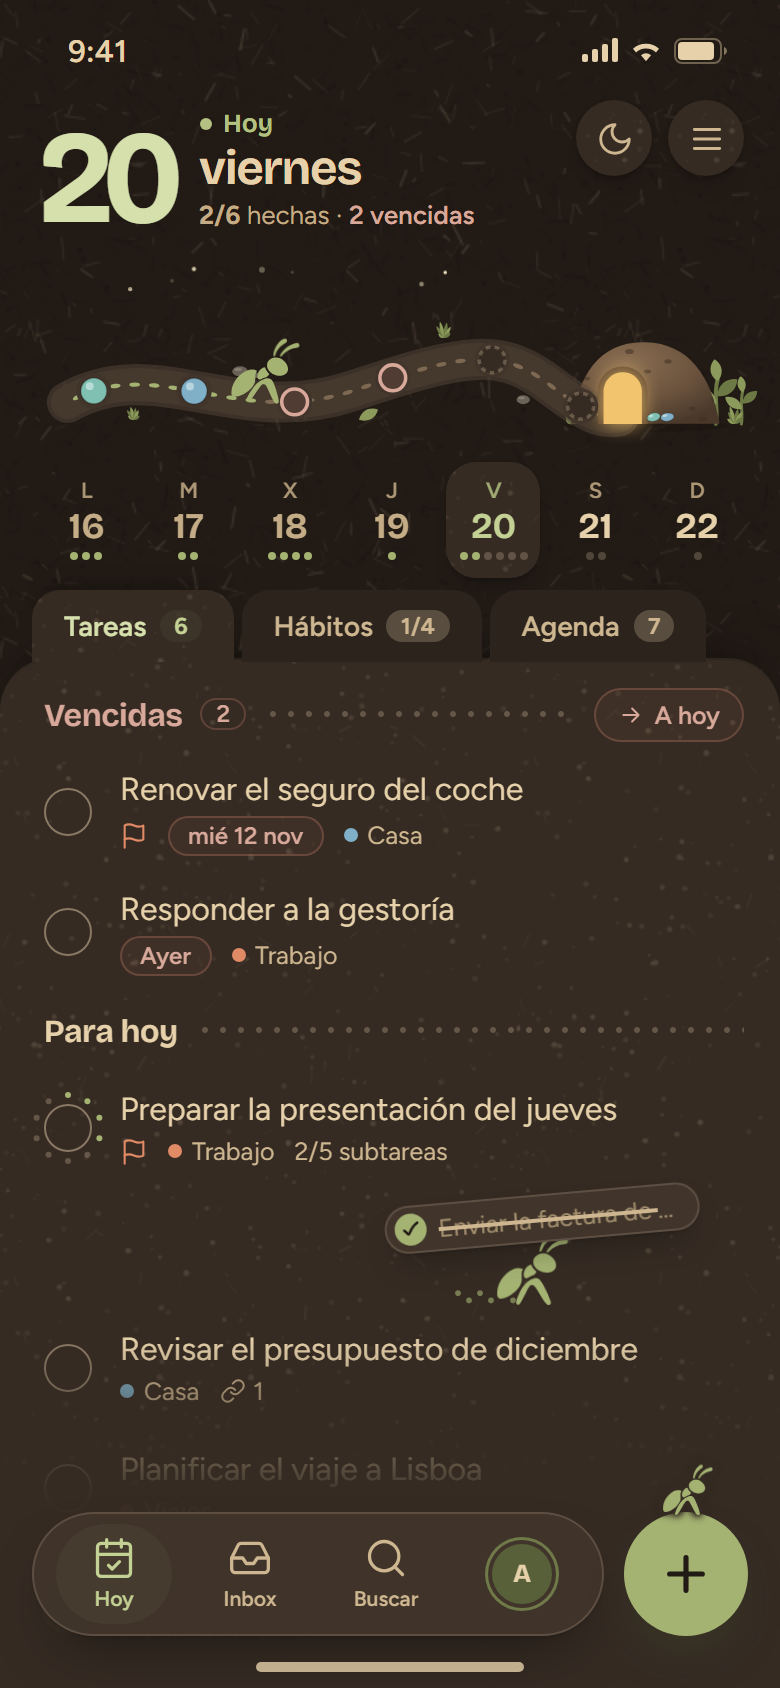
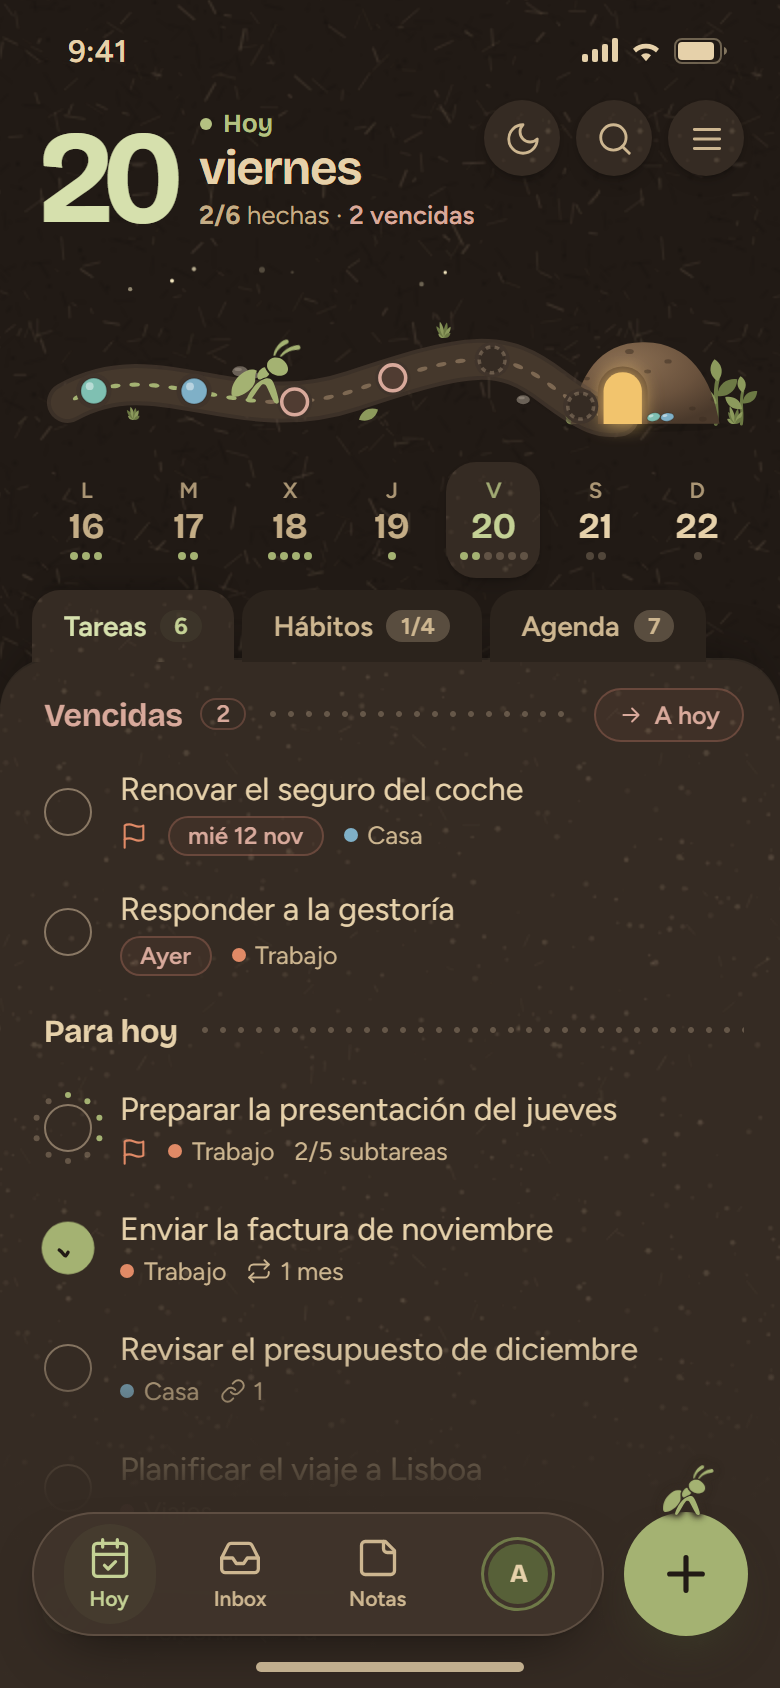
Docs: una nota en PC, pestañas del mes y la barra nueva en todo el móvil

diff --git a/docs/disenos/hormiga/index.html b/docs/disenos/hormiga/index.html
@@ -356,6 +356,7 @@ a{color:inherit;text-decoration:none}
 .nota-nueva .ico{color:var(--o500)}
 .nota-nueva span:last-child{margin-left:auto;display:flex;gap:12px;color:var(--t3)}
 .notas4{display:grid;grid-template-columns:repeat(4,1fr);gap:14px;align-items:start;padding:4px 6px 8px}
+.app.con-detalle .notas4{grid-template-columns:repeat(3,1fr)}
 .notas4>div{display:flex;flex-direction:column;gap:14px;min-width:0}
 .nota{position:relative;padding:15px 16px 13px;border-radius:18px;background:var(--card);border:1px solid var(--borde-s);box-shadow:0 1px 2px rgba(var(--sombra-rgb),.07),0 10px 18px -14px rgba(var(--sombra-rgb),.4)}
 .nota.fijada{margin-top:10px}
@@ -819,6 +820,47 @@ svg.pgn{display:block;width:100%;height:auto;overflow:visible}
 .sm-pc .sm-col{padding:10px 0 11px}
 .sm-pc .sm-pila{height:92px;gap:2px}
 .sm-pc .sm-pila i{width:20px;height:12px}
+/* ═══ 26-nov: detalle de una nota en PC ═══ */
+.e-nota .captura{display:none}
+.nota{cursor:pointer;transition:transform .15s,box-shadow .15s}
+.nota:hover{transform:translateY(-2px)}
+.nota.sel{box-shadow:0 0 0 2px color-mix(in srgb,var(--o500) 55%,transparent),0 14px 24px -16px rgba(var(--sombra-rgb),.5)}
+.nt-panel{display:flex;flex-direction:column;padding-bottom:0}
+.nt-panel .det-cab{flex:none}
+.nt-panel .det-btns .fij{color:var(--o600)}
+.nt-papel{position:relative;flex:1;margin:4px -6px 0;padding:22px 20px 20px;border-radius:20px 20px 0 0;background:var(--card);border:1px solid var(--borde-s);border-bottom:0}
+.nt-papel .cinta{top:-9px;left:64px;margin-left:0}
+.nt-meta{display:flex;align-items:center;gap:8px;font-size:12.5px;color:var(--t3)}
+.nt-tit{font:700 30px/1.1 var(--f-disp);letter-spacing:-.03em;color:var(--t1);margin-top:12px}
+.nt-cuerpo{margin-top:14px;font-size:16px;line-height:30px;color:var(--t1);background-image:repeating-linear-gradient(transparent 0 29px,var(--borde) 29px 30px);background-position:0 -2px}
+.nt-cuerpo p{margin:0}
+.nt-cuerpo .cursor{display:inline-block;width:2px;height:20px;vertical-align:-4px;background:var(--o500);animation:parpadeo 1s steps(1) infinite}
+.nt-items{list-style:none;margin:0;padding:0}
+.nt-items li{display:flex;align-items:center;gap:10px;height:30px;cursor:pointer}
+.nt-items .nl-c{width:18px;height:18px;margin:0}
+.nt-items .nl-c svg{width:11px;height:11px}
+.nt-items li.ok .nl-c{background:var(--o500);border-color:transparent}
+.nt-items li.ok .nl-c svg{opacity:1}
+.nt-items li.ok .st{color:var(--t3)}
+.nt-items li.ok .tachon{clip-path:inset(-4px -4px -4px -4px)}
+.nt-items li.ok .flecha{display:none}
+.nt-items .flecha{margin-left:auto;display:inline-flex;align-items:center;gap:4px;font-size:12px;font-weight:600;color:var(--o600);padding:2px 9px;border-radius:999px;background:color-mix(in srgb,var(--o500) 13%,transparent)}
+.nt-items .flecha.hecho{background:none;color:var(--t3);font-weight:500}
+.nt-aviso{margin-top:18px;display:flex;align-items:center;gap:10px;padding:10px 12px;border-radius:14px;background:color-mix(in srgb,var(--o500) 11%,transparent);font-size:13.5px;line-height:1.4;color:var(--t2)}
+.nt-aviso .hormiga{width:28px;height:28px;flex:none}
+.nt-aviso b{color:var(--t1);font-weight:600}
+.nt-enl{margin-top:16px}
+.nt-enl .sec-cab{height:32px}
+.nt-enl .sec-tit{font-size:13.5px;color:var(--t2)}
+.nt-tarea{display:flex;align-items:center;gap:10px;height:40px;padding:0 12px;border-radius:12px;background:var(--hab-bg);border:1px solid var(--borde-s);font-size:14px;color:var(--t1)}
+.nt-tarea+.nt-tarea{margin-top:6px}
+.nt-tarea i{width:8px;height:8px;border-radius:50%;flex:none}
+.nt-tarea small{margin-left:auto;color:var(--t3);font-size:12.5px}
+.nt-barra{position:sticky;bottom:0;z-index:3;flex:none;display:flex;align-items:center;gap:2px;height:56px;margin:0 -22px;padding:0 14px;background:var(--hoja);border-top:1px solid var(--borde-s)}
+.nt-barra button{width:40px;height:40px;border-radius:50%;display:grid;place-items:center;color:var(--t2)}
+.nt-barra button:hover{background:var(--hab-bg)}
+.nt-barra .guardado{margin-left:auto;display:inline-flex;align-items:center;gap:6px;font-size:12.5px;color:var(--t3)}
+.nt-barra .guardado i{width:7px;height:7px;border-radius:50%;background:var(--l-personal)}
 </style>
 </head>
 <body>
@@ -1431,11 +1473,11 @@ function nota(n,fijada){
   const cuerpo=n.items
     ?`<ul class="nota-lista">${n.items.map(([x,ok])=>`<li class="${ok?'ok':''}"><span class="nl-c">${CK}</span><span class="st">${x}${tachon()}</span></li>`).join('')}</ul><span class="nota-acc">${ico('arrow',13)} ${n.acc}</span>`
     :`<p>${n.p}</p>`;
-  return `<article class="nota${fijada?' fijada':''}">${fijada?'<span class="cinta"></span>':''}<h3>${n.t}</h3>${cuerpo}
+  return `<article class="nota${fijada?' fijada':''}${estado==='nota'&&n.t==='Reunión con Marta'?' sel':''}">${fijada?'<span class="cinta"></span>':''}<h3>${n.t}</h3>${cuerpo}
     <div class="nota-pie"><span class="lista" style="color:${lc}"><i></i><span>${ln}</span></span><span>${n.f}</span></div></article>`;
 }
 function columnas4(lista,fijada){
-  const c=[[],[],[],[]];lista.forEach((n,i)=>c[i%4].push(nota(n,fijada)));
+  const k=estado==='nota'?3:4,c=Array.from({length:k},()=>[]);lista.forEach((n,i)=>c[i%k].push(nota(n,fijada)));
   return `<div class="notas4">${c.map(x=>`<div>${x.join('')}</div>`).join('')}</div>`;
 }
 function notasHTML(){
@@ -1912,20 +1954,55 @@ function mesPC(){
   for(let d=1;d<=6;d++)s+=`<div class="mp-d fuera"><b>${d}</b></div>`;
   return `<header class="cabeza cabeza--pag"><div><div class="eyebrow">Calendario</div><h1 class="act-tit">Noviembre <span style="color:var(--t3);font-weight:600">2026</span></h1><div class="pag-sub">38 tareas este mes · 26 hechas · <span class="venc">2 vencidas</span></div></div><div></div>
     <div class="herr"><button class="tema-btn" aria-label="Cambiar tema">${ico(OSC?'moon':'sun')}</button><button>${ico('izquierda')}</button><button>${ico('derecha')}</button></div></header>
-  <nav class="pestanas"><a class="pestana" href="#agenda">Día</a><button class="pestana">Semana</button><button class="pestana on">Mes</button><div class="pest-dcha"><span class="mp-ley"><i style="background:var(--l-trabajo)"></i>tareas por lista<i style="background:var(--cal-google);margin-left:10px"></i>Google</span></div></nav>
+  <nav class="pestanas"><a class="pestana" href="#hoy">${ico('list',16)} Lista</a><a class="pestana" href="#agenda">${ico('reloj',16)} Agenda</a><button class="pestana on">${ico('calendar',16)} Mes</button><div class="pest-dcha"><span class="mp-ley"><i style="background:var(--l-trabajo)"></i>tareas por lista<i style="background:var(--cal-google);margin-left:10px"></i>Google</span></div></nav>
   <div class="cuerpo"><div class="mp">${s}</div></div>`;
 }
+Object.assign(ICOS,{
+  chincheta:'<path d="M12 17v5"/><path d="M9 10.76a2 2 0 0 1-1.11 1.79l-1.78.9A2 2 0 0 0 5 15.24V16a1 1 0 0 0 1 1h12a1 1 0 0 0 1-1v-.76a2 2 0 0 0-1.11-1.79l-1.78-.9A2 2 0 0 1 15 10.76V7a1 1 0 0 1 1-1 2 2 0 0 0 0-4H8a2 2 0 0 0 0 4 1 1 0 0 1 1 1z"/>',
+  archivo:'<rect width="20" height="5" x="2" y="3" rx="1"/><path d="M4 8v11a2 2 0 0 0 2 2h12a2 2 0 0 0 2-2V8M10 12h4"/>',
+  negrita:'<path d="M6 12h9a4 4 0 0 1 0 8H7a1 1 0 0 1-1-1V5a1 1 0 0 1 1-1h7a4 4 0 0 1 0 8"/>',
+  calcheck:'<rect width="18" height="18" x="3" y="4" rx="2"/><path d="M16 2v4M8 2v4M3 10h18M9 16l2 2 4-4"/>'
+});
+/* 26-nov: el detalle de una nota, a la derecha de la rejilla (como el de una tarea) */
+function notaPanel(){
+  const it=(x,ok,acc)=>`<li class="${ok?'ok':''}"><span class="nl-c">${CK}</span><span class="st">${x}${tachon()}</span>${acc}</li>`;
+  return `<aside class="det-panel nt-panel">
+    <div class="det-cab"><span class="det-lista"><i style="background:var(--l-trabajo)"></i>Trabajo ${ico('chev',14)}</span>
+      <div class="det-btns"><button aria-label="Fijar">${ico('chincheta',16)}</button><button aria-label="Archivar">${ico('archivo',16)}</button><button aria-label="Más">${ico('mas',18)}</button><a href="#notas" aria-label="Cerrar">${ico('cerrar',18)}</a></div></div>
+    <div class="nt-papel">
+      <div class="nt-meta"><span>Editada hoy, 9:12</span><span>·</span><span>Creada el 18 nov</span></div>
+      <h2 class="nt-tit">Reunión con Marta</h2>
+      <div class="nt-cuerpo">
+        <p>Repasamos la propuesta de diciembre. Quiere el presupuesto cerrado antes del lunes y los logos nuevos.</p>
+        <ul class="nt-items">
+          ${it('Ver el presupuesto',1,'')}
+          ${it('Enviar la propuesta el lunes',0,`<span class="flecha">${ico('arrow',12)} Pasar a tarea</span>`)}
+          ${it('Pedirle los logos',0,`<span class="flecha hecho">${ico('calcheck',13)} en Trabajo</span>`)}
+        </ul>
+        <p>Ella lleva el portátil a la presentación del jueves<span class="cursor"></span></p>
+      </div>
+      <div class="nt-aviso">${hormiga()}<span><b>«Pedirle los logos»</b> ya es una tarea en Trabajo. Cuando la completes, aquí se tacha sola.</span></div>
+      <div class="nt-enl"><div class="sec-cab"><span class="sec-tit">Tareas que salen de esta nota</span><span class="sec-n">1</span><span class="puntos"></span></div>
+        <div class="nt-tarea"><i style="background:var(--l-trabajo)"></i>Pedirle los logos a Marta<small>sin fecha</small></div></div>
+    </div>
+    <div class="nt-barra"><button aria-label="Casilla">${ico('casilla',19)}</button><button aria-label="Negrita">${ico('negrita',18)}</button><button aria-label="Imagen">${ico('imagen',19)}</button><button aria-label="Enlace">${ico('link',18)}</button><span class="guardado"><i></i>Guardada</span></div>
+  </aside>`;
+}
+document.addEventListener('click',e=>{
+  const li=e.target.closest('.nt-items li');if(li&&!e.target.closest('.flecha')){li.classList.toggle('ok');return;}
+  const n=e.target.closest('.nota');if(n&&!e.target.closest('.nota-lista'))location.hash=estado==='nota'?'#notas':'#nota';
+});
 /* ═══ Arranque ═══ */
 texturas();
 const raiz=document.getElementById('raiz');
 if(estado==='vacios'){renderVacios();}
 else{
-  const NUEVAS={agenda:agendaHTML,notas:notasHTML,'inbox-listas':inboxHTML,detalle:inboxHTML,habitos:habitosPC,lista:listaPC,mes:mesPC};
+  const NUEVAS={agenda:agendaHTML,notas:notasHTML,'inbox-listas':inboxHTML,detalle:inboxHTML,habitos:habitosPC,lista:listaPC,mes:mesPC,nota:notasHTML};
   const esSem=/^semana(-\d)?$/.test(estado);
-  const act=estado==='actividad'||esSem?'actividad':estado==='notas'?'notas':estado==='habitos'?'habitos':estado==='lista'?'lista':(estado==='inbox-listas'||estado==='detalle')?'inbox':'hoy';
+  const act=estado==='actividad'||esSem?'actividad':(estado==='notas'||estado==='nota')?'notas':estado==='habitos'?'habitos':estado==='lista'?'lista':(estado==='inbox-listas'||estado==='detalle')?'inbox':'hoy';
   document.body.classList.add(estado==='fin'?'e-fin':esSem?'e-semana':act==='actividad'?'e-actividad':NUEVAS[estado]?'e-'+estado:'e-hoy');
   const contenido=NUEVAS[estado]?NUEVAS[estado]():esSem?semanaHTML():act==='actividad'?actividadHTML():hoyHTML(estado);
-  raiz.innerHTML=`<div class="app${estado==='detalle'?' con-detalle':''}"><aside class="lateral">${lateral(act)}</aside><div class="pila"><main class="hoja">${contenido}</main></div>${estado==='detalle'?detallePanel():''}</div>`;
+  raiz.innerHTML=`<div class="app${estado==='detalle'||estado==='nota'?' con-detalle':''}"><aside class="lateral">${lateral(act)}</aside><div class="pila"><main class="hoja">${contenido}</main></div>${estado==='detalle'?detallePanel():estado==='nota'?notaPanel():''}</div>`;
   if(estado==='buscar')raiz.insertAdjacentHTML('beforeend',paletaHTML());
   if(estado==='ajustes')raiz.insertAdjacentHTML('beforeend',ajustesHTML());
   if(estado==='agenda'){

diff --git a/docs/disenos/hormiga/movil.html b/docs/disenos/hormiga/movil.html
@@ -1018,6 +1018,8 @@ const BARRA_ESTADO=`<div class="estado"><span>9:41</span><span class="ei">
   <svg width="16" height="12" viewBox="0 0 16 12"><path d="M8 11.6 10.5 8.6a3.7 3.7 0 0 0-5 0z"/><path d="M8 5.3c2 0 3.7.7 5 1.9l1.5-1.8A9.4 9.4 0 0 0 8 2.9a9.4 9.4 0 0 0-6.5 2.5L3 7.2a7.1 7.1 0 0 1 5-1.9z"/></svg>
   <svg width="27" height="13" viewBox="0 0 27 13"><rect x=".5" y=".5" width="23" height="12" rx="3.5" fill="none" stroke="currentColor" opacity=".4"/><rect x="2" y="2" width="18" height="9" rx="2"/><path d="M25 4.5v4c.8-.3 1.5-1.1 1.5-2s-.7-1.7-1.5-2z" opacity=".5"/></svg></span></div>`;
 function nav(on){
+  // 26-nov: todas las pantallas usan ya la barra nueva (Hoy · Inbox · Notas · tú); Buscar vive arriba, en la lupa
+  return navN(on);
   const b=(id,html,lbl)=>`<button class="${id===on?'on':''}">${html}<span>${lbl}</span></button>`;
   return `<nav class="m-nav">${b('hoy',ico('calcheck',22),'Hoy')}${b('inbox',ico('inbox',22),'Inbox')}${b('buscar',ico('search',22),'Buscar')}<button class="${on==='perfil'?'on':''}"><span class="m-av">A</span></button></nav>
   <button class="m-fab" aria-label="Nueva tarea"><span class="fab-hor">${hormiga()}</span>${ico('plus',28,2.2)}</button><div class="home"></div>`;
@@ -1060,7 +1062,7 @@ function semana(fin){
 function cabeceraHoy(fin){
   return `<header class="m-cab">
     <div class="m-fila1"><div class="fecha"><div class="dia">20</div><div><div class="eyebrow">Hoy</div><div class="dsem">viernes</div><div class="mes" id="mes">de noviembre</div></div></div>
-      <div class="m-herr"><button class="tema-btn" aria-label="Cambiar tema">${ico(OSC?'moon':'sun',19)}</button><button>${ico('menu',19)}</button></div></div>
+      <div class="m-herr"><button class="tema-btn" aria-label="Cambiar tema">${ico(OSC?'moon':'sun',19)}</button><button aria-label="Buscar">${ico('search',19)}</button><button>${ico('menu',19)}</button></div></div>
     <div class="rastro">${rastroSVG()}<div class="rastro-pie" id="pie"></div></div>
     ${semana(fin)}
   </header>`;

diff --git a/docs/disenos/hormiga/resumen.html b/docs/disenos/hormiga/resumen.html
@@ -96,6 +96,7 @@ const G=[
   ['inbox-listas','Inbox','Agrupado por lista'],
   ['detalle','Detalle','Tercera columna junto al Inbox'],
   ['notas','Notas','Cuatro columnas'],
+  ['nota','Una nota','Abierta a la derecha, con sus casillas y las tareas que salen de ella'],
   ['habitos','Hábitos','La lista a la izquierda y el historial del elegido'],
   ['lista','Una lista','Trabajo, con su anillo y por fechas'],
   ['mes','Mes','El calendario con las tareas y eventos de cada día'],

diff --git a/docs/disenos/hormiga/LEEME.md b/docs/disenos/hormiga/LEEME.md
@@ -289,3 +289,10 @@ Capturas nuevas: `movil-inbox-calendario`, `movil-semana`, `semana` y `movil-bie
 - **`#mes` (PC):** el calendario del mes con las tareas de cada día como etiquetas del color de su lista (las pasadas, tachadas; las vencidas, en rojo) y los eventos de Google. Hoy, con borde verde. Pestañas Día · Semana · Mes; desde la Agenda, «Mes».
 - La página resumen suma estas pantallas y las que faltaban (`bienvenida-4`, `inbox-calendario`, `semana`).
 - Capturas: `movil-habito`, `habitos`, `lista`, `mes`, cada una con su `-oscuro`.
+
+## Añadido el 26-nov-2026 (2): una nota en PC y la barra nueva en todo el móvil
+
+- **`#nota` (PC):** al pulsar una nota se abre a la derecha, como el detalle de una tarea. La rejilla pasa a 3 columnas y la nota elegida queda marcada. Dentro van la lista (con fijar, archivar, más y cerrar), cuándo se editó, el título, el cuerpo en papel pautado con casillas (una con «Pasar a tarea», otra ya convertida «en Trabajo»), el aviso de la hormiga, las tareas que salen de la nota y una barra para dar formato con «Guardada». En tableta el panel se abre por encima.
+- **`#mes` (PC):** las pestañas son las mismas que en la Agenda (Lista · Agenda · Mes). Por eso la barra lateral sigue marcando «Hoy».
+- **Móvil:** Hoy, Día terminado, Hábitos, Actividad e Inbox vacío ya usan la barra nueva (Hoy · Inbox · Notas · tú). Buscar se abre con la lupa de la cabecera de Hoy.
+- Capturas: `nota` y `nota-oscuro` (nuevas); `mes`, y las 5 del móvil con su `-oscuro`, rehechas.
